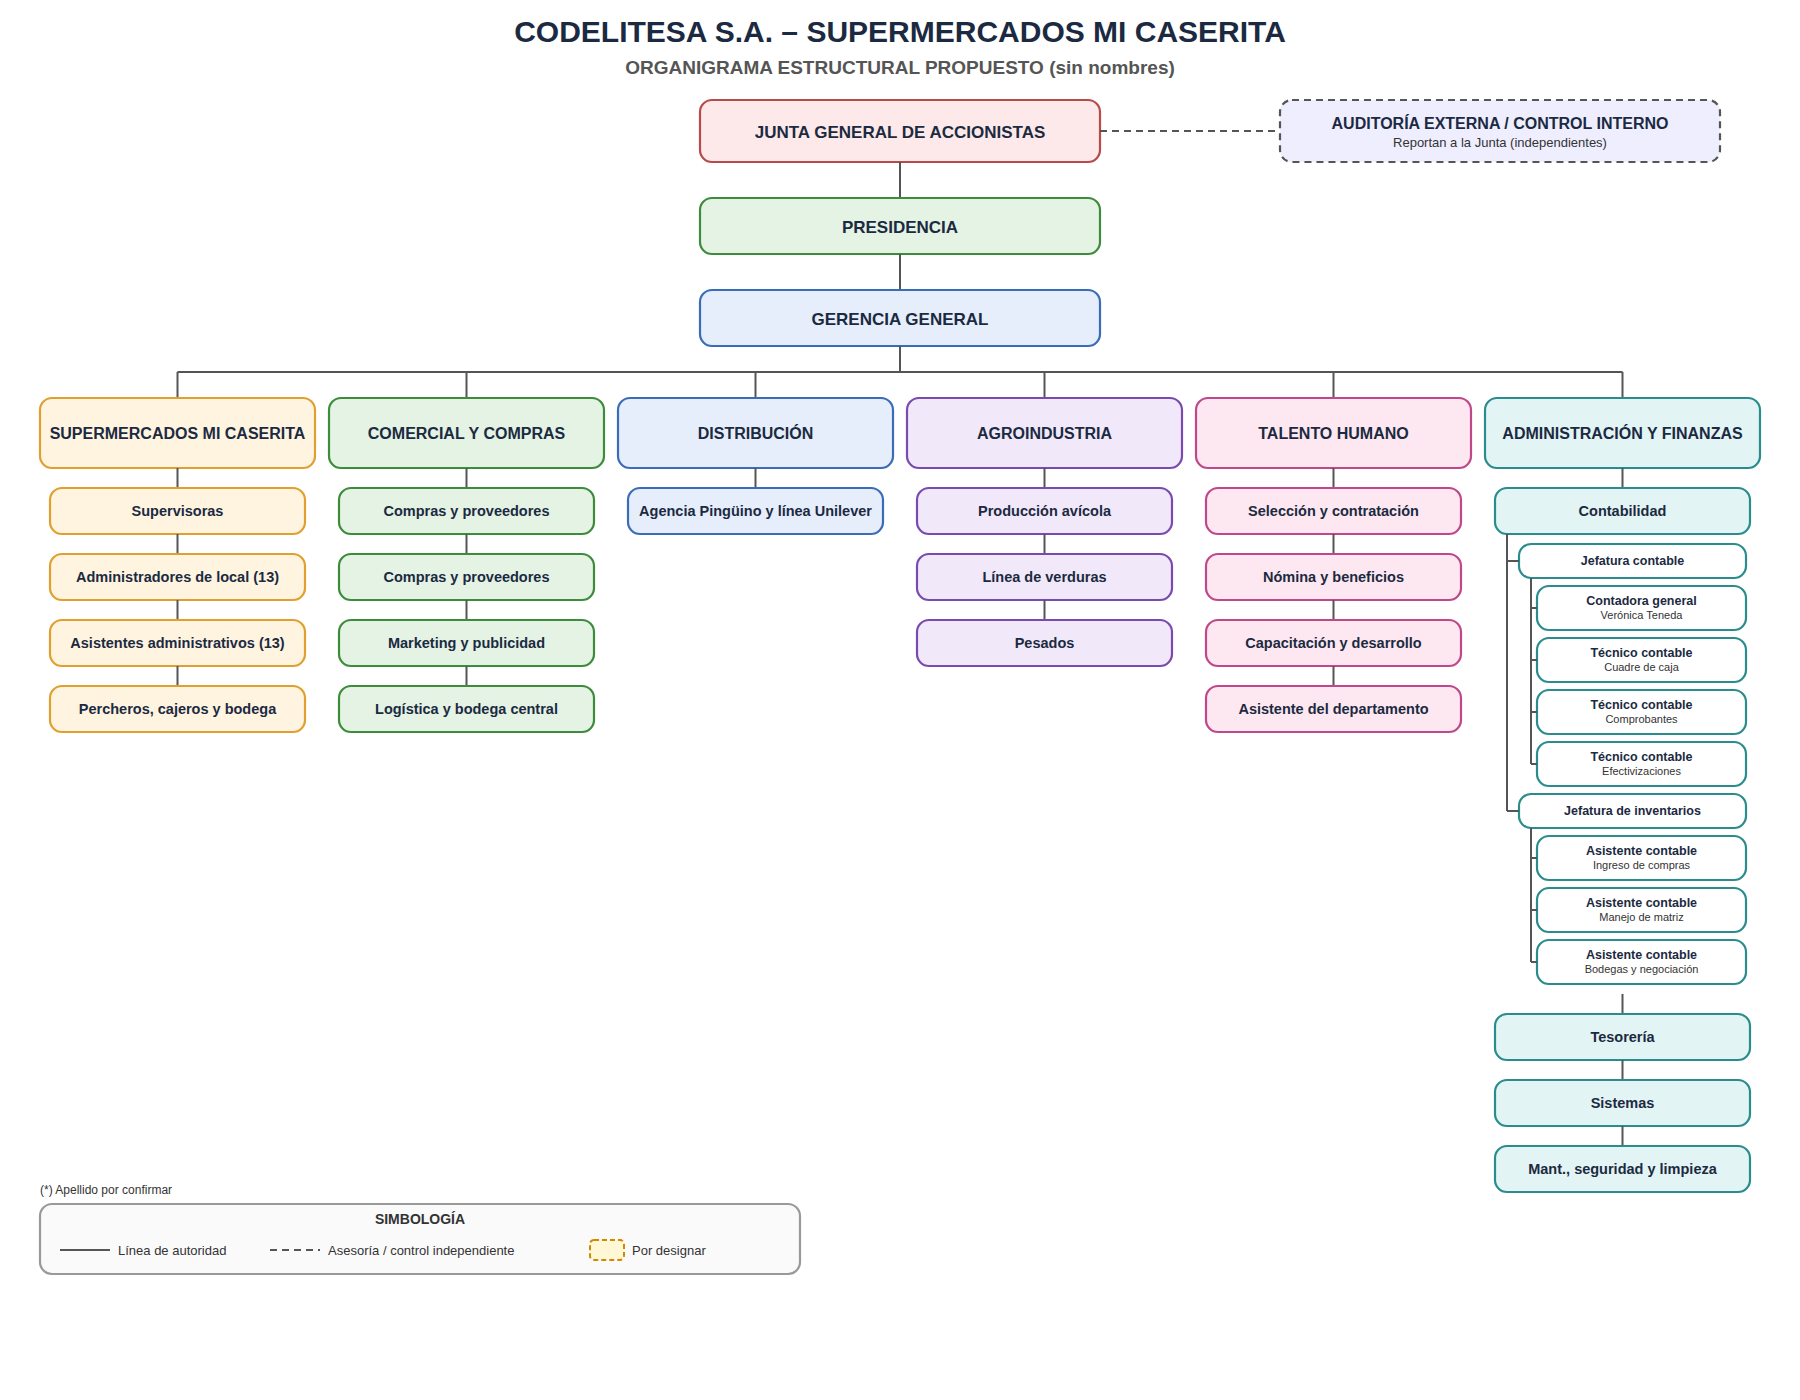
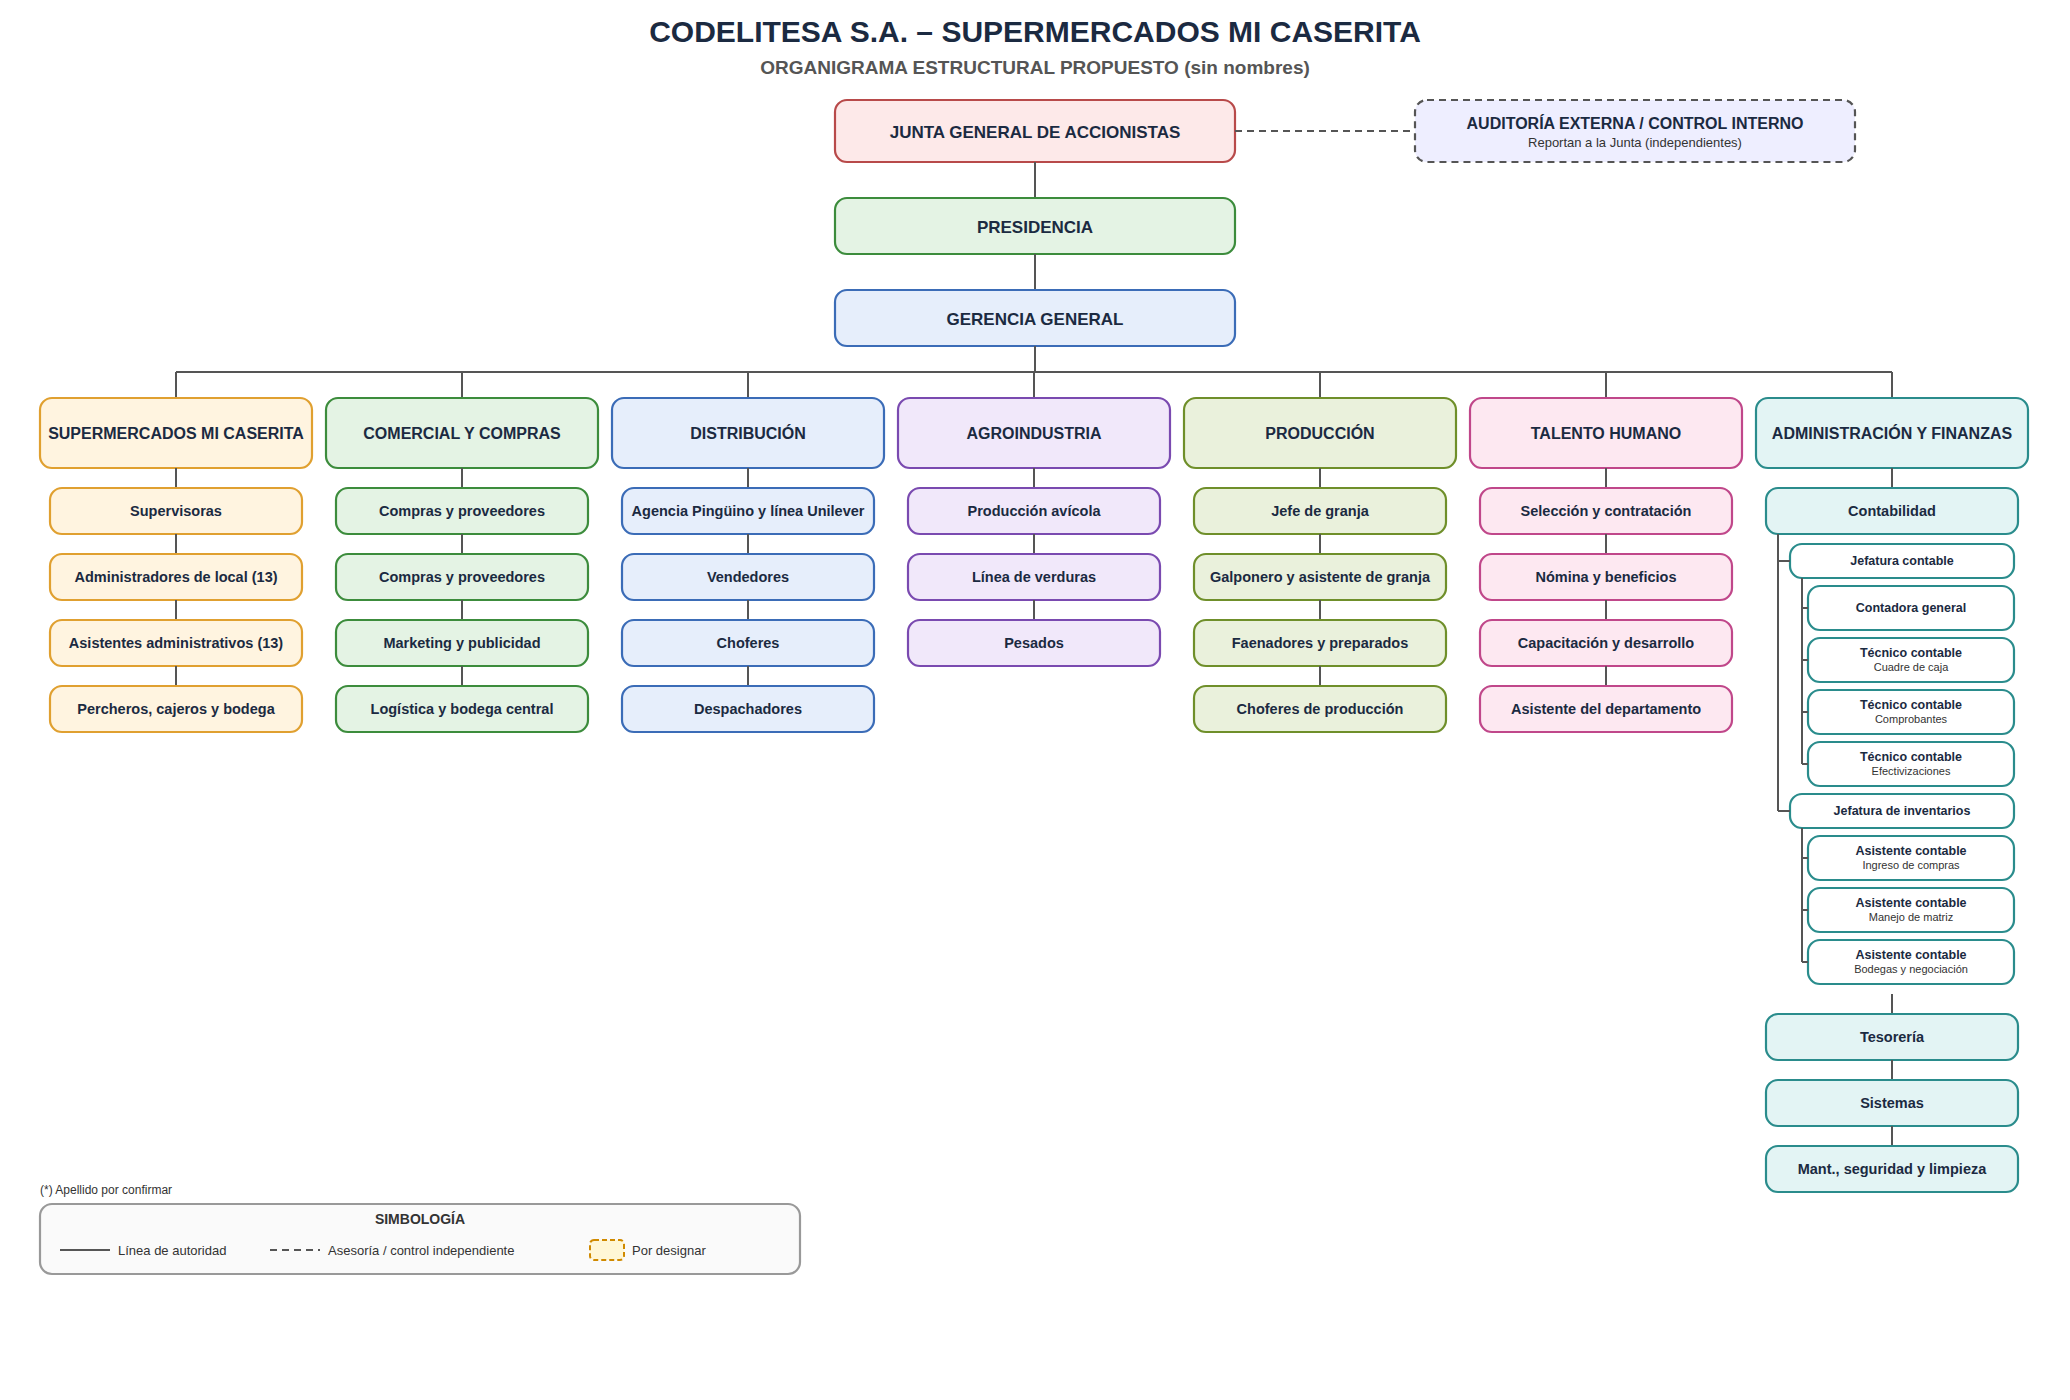
Agregar departamento de Producción y puestos de Pingüino; ajustar Comercial y Compras
Claude-Session: https://claude.ai/code/session_012Bb6M7hyJwwVBojnoHpByV

diff --git a/organigrama/gen.py b/organigrama/gen.py
@@ -1,6 +1,6 @@
 import html
-W=1800
-COL=[("#fff4e0","#e0a030"),("#e4f3e4","#3c8c3c"),("#e6eefb","#3b6cb7"),("#f1e8fa","#7a4ab0"),("#fde8f1","#c0478a"),("#e3f4f4","#2a8c8c")]
+W=2070
+COL=[("#fff4e0","#e0a030"),("#e4f3e4","#3c8c3c"),("#e6eefb","#3b6cb7"),("#f1e8fa","#7a4ab0"),("#eaf1dc","#6f8f2a"),("#fde8f1","#c0478a"),("#e3f4f4","#2a8c8c")]
 GREEN=("#e4f3e4","#3c8c3c")
 def esc(s):return html.escape(s)
 class S:
@@ -33,8 +33,8 @@ def build(func):
     s.box(cx-200,100,400,62 if not func else 76,"JUNTA GENERAL DE ACCIONISTAS",["Familia propietaria – define estrategia y nombra la auditoría"] if func else [],*GREEN[:0],fill="#fde9e9",stroke="#b84a4a")
     jb=100+(76 if func else 62)
     # auditoria
-    s.box(1280,100,440,76 if func else 62,"AUDITORÍA EXTERNA / CONTROL INTERNO",["Por designar (control interno) – reporta a la Junta","Verifica cajas, inventarios y procedimientos"] if func else ["Reportan a la Junta (independientes)"],fill="#eef",stroke="#555",dashed=True,pending=False,tsize=16)
-    s.line(cx+200,100+ (38 if func else 31),1280,100+(38 if func else 31),True)
+    s.box(cx+380,100,440,76 if func else 62,"AUDITORÍA EXTERNA / CONTROL INTERNO",["Por designar (control interno) – reporta a la Junta","Verifica cajas, inventarios y procedimientos"] if func else ["Reportan a la Junta (independientes)"],fill="#eef",stroke="#555",dashed=True,pending=False,tsize=16)
+    s.line(cx+200,100+ (38 if func else 31),cx+380,100+(38 if func else 31),True)
     # Presidencia
     py=jb+36
     s.line(cx,jb,cx,py)
@@ -45,7 +45,7 @@ def build(func):
     s.box(cx-200,gy,400,90 if func else 56,"GERENCIA GENERAL",["Luis Teneda","Dirección de la operación, planificación,","control y representación legal"] if func else [],fill="#e6eefb",stroke="#3b6cb7")
     gb=gy+(90 if func else 56)
     # columns
-    w,gap,x0=275,14,40
+    w,gap,x0=272,14,40
     hy=gb+52
     hh=120 if func else 70
     bus=gb+26
@@ -56,17 +56,25 @@ def build(func):
         ("Administradores de local (13)",["Apertura, caja, personal e","inventario de cada local"],0),
         ("Asistentes administrativos (13)",["Uno por local","Apoyo administrativo al administrador"],1),
         ("Percheros, cajeros y bodega",["Atención al cliente, reposición","y manejo de caja"],0)]),
-     ("COMERCIAL Y COMPRAS",["Luis David Teneda","Jefe de Comercial y Compras","Compras, precios y abastecimiento"],"",[
+     ("COMERCIAL Y COMPRAS",["Luis David Teneda","Jefe comercial y de compras","Compras, precios y abastecimiento"],"",[
         ("Compras y proveedores",["Mauro Carvajal","Negociación, compras y precios"],0),
         ("Compras y proveedores",["Verónica Teneda","Negociación, compras y precios"],0),
         ("Marketing y publicidad",["Verónica Teneda (supervisa)","Contrata proveedor externo de marketing"],0),
         ("Logística y bodega central",["Jorge Leime","Abastecimiento a los 13 locales"],0)]),
      ("DISTRIBUCIÓN",["Luis David Teneda","Jefe de Agencia Pingüino y","línea Unilever"],"",[
-        ("Agencia Pingüino y línea Unilever",["Administrador: Juan Carlos Vallejo","Rutas, cartera y cadena de frío"],1)]),
+        ("Agencia Pingüino y línea Unilever",["Administrador: Juan Carlos Vallejo","Rutas, cartera y cadena de frío"],0),
+        ("Vendedores",["Por designar","Venta en ruta y atención a clientes"],1),
+        ("Choferes",["Por designar","Transporte y entrega de pedidos"],1),
+        ("Despachadores",["Por designar","Preparación y despacho de pedidos"],1)]),
      ("AGROINDUSTRIA",["Por designar","Abastece a los supermercados","con producto propio"],"",[
         ("Producción avícola",["Alexis Chiluiza y Javier (*)","Engorde y planta de proceso"],0),
         ("Línea de verduras",["Rocío Gamboa y Luis Padilla (*)","Cultivo y abastecimiento"],0),
         ("Pesados",["Alexis Chiluiza y Javier (*)","Área de pesados"],0)]),
+     ("PRODUCCIÓN",["Producción de pollo:","granja, faenado y transporte"],"",[
+        ("Jefe de granja",["Oliver Tipán","Coordinación de la granja,","bioseguridad y personal"],0),
+        ("Galponero y asistente de granja",["Por designar","Cuidado de aves,","alimentación y registros"],1),
+        ("Faenadores y preparados",["Por designar","Faenado, proceso y","empaque del pollo"],1),
+        ("Choferes de producción",["Por designar","Traslado, refrigerado","y entrega del pollo"],1)]),
      ("TALENTO HUMANO",["Fernanda Teneda","Jefa de Talento Humano","Personal de todas las unidades"],"",[
         ("Selección y contratación",["Fernanda Teneda","Reclutamiento e ingreso de personal"],0),
         ("Nómina y beneficios",["Fernanda Teneda","Pago de personal y beneficios"],0),
@@ -109,7 +117,7 @@ def build(func):
                     ind=34 if lv==1 else 52
                     pend="Por designar" in sl[-1]
                     if func: s.box(x+ind,y,w-ind-14,sh,st,sl,fill="#fff",stroke=stroke,pending=pend,tsize=12.5,lsize=11)
-                    else: s.box(x+ind,y,w-ind-14,sh,st,sl[:1] if lv==2 else [],fill="#fff",stroke=stroke,tsize=12.5,lsize=11)
+                    else: s.box(x+ind,y,w-ind-14,sh,st,sl[:1] if (lv==2 and len(sl)>1 and "Por designar" in sl[-1]) else [],fill="#fff",stroke=stroke,tsize=12.5,lsize=11)
                     pos.append((y,sh,lv)); y+=sh+sg
                 l1=[p for p in pos if p[2]==1]
                 s.line(x+22,pos[0][0]-10,x+22,l1[-1][0]+l1[-1][1]/2)
@@ -124,7 +132,7 @@ def build(func):
                             s.line(x+46,py_+ph,x+46,kids[-1][0]+kids[-1][1]/2)
                             for q in kids: s.line(x+46,q[0]+q[1]/2,x+52,q[0]+q[1]/2)
                 y+=2
-    xs=[x0+i*(w+gap)+w/2 for i in range(6)]
+    xs=[x0+i*(w+gap)+w/2 for i in range(7)]
     s.line(xs[0],bus,xs[-1],bus)
     # legend
     ly=H-96
